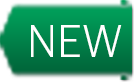
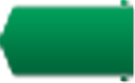
gamespage the end

diff --git a/css/gamespage.css b/css/gamespage.css
@@ -8,6 +8,7 @@
     vertical-align: top;
     width: 100%;
     margin-bottom: 25px;
+    z-index: 2;
 }
 .slots__pic {
     display: block;
@@ -94,8 +95,12 @@
     background-size: contain;
     background-repeat: no-repeat;
     margin-bottom: 6px;
-    text-indent: -1000px;
     overflow: hidden;
+    text-overflow: ellipsis;
+    font-size: 22px;
+    color: #fff;
+    text-transform: uppercase;
+    padding: 10px 0 0 14px;
 }
 .slots__hot {
     background-image: url("../img/hot.png");
@@ -152,6 +157,8 @@
     .slots__new {
         width: 51px;
         height: 30px;
+        font-size: 17px;
+        padding: 8px 0 0 10px;
     }
     .slots__type {
         top: 12px;
@@ -204,6 +211,8 @@
         width: 37px;
         height: 23px;
         margin-bottom: 1px;
+        font-size: 12px;
+        padding: 5px 0 0 8px;
     }
     .slots__type {
         top: 10px;
